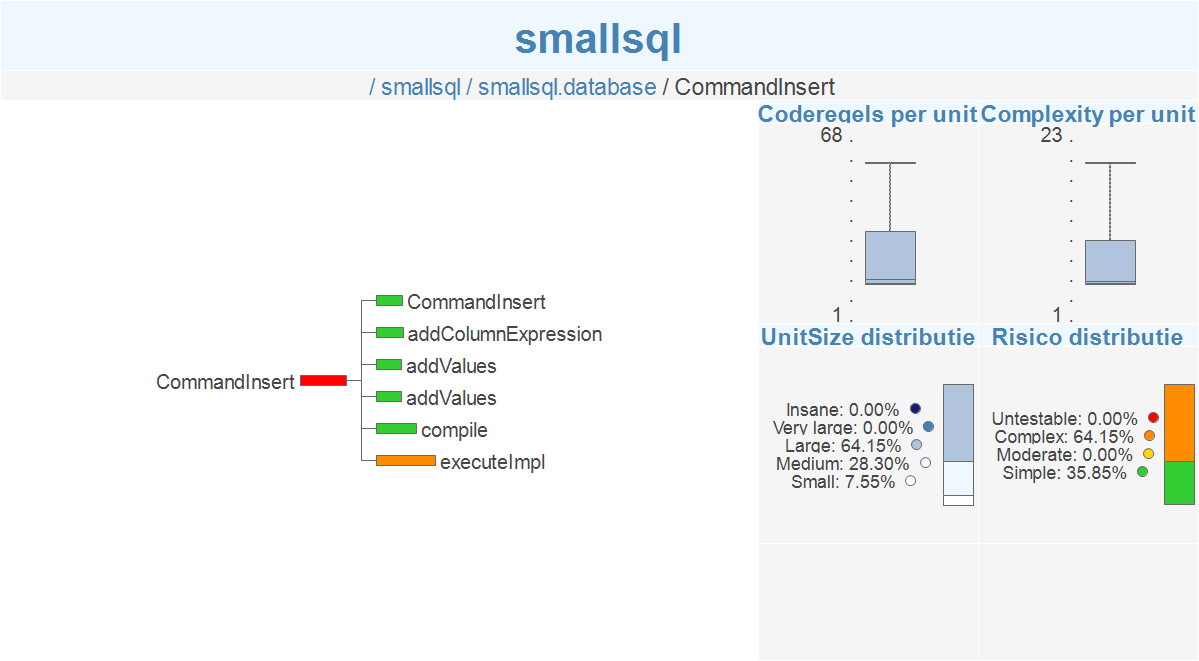
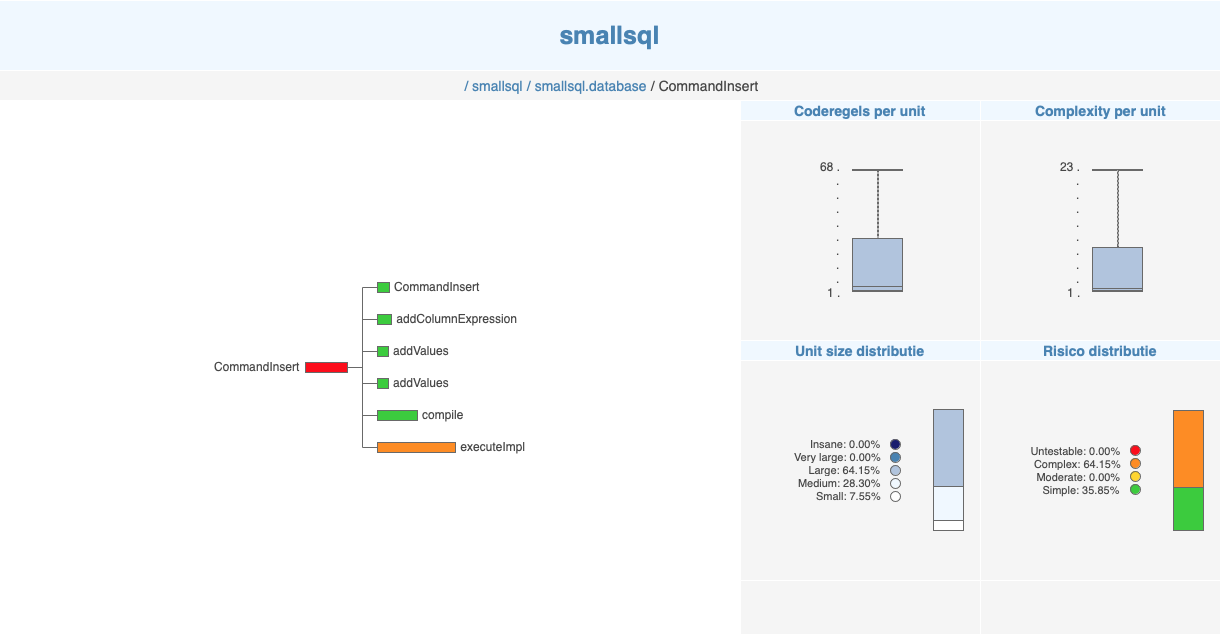
update verslag

diff --git a/verslag/assignment2/verslag_assignment2.tex b/verslag/assignment2/verslag_assignment2.tex
@@ -33,7 +33,7 @@ Het cache mechanisme en een eerste versie van een zelfgemaakte boxplot is door E
 \section{Aannames}
 \begin{description}
 \item[Data is consistent] We gaan ervan uit dat de data waar de visualisatie op maken, dezelfde is als de data uit assignment 1. Voor de visualisatie gebruiken we niet de duplicatiemetrieken.
-\item[Kleurenblindheid en grijstinten] De visualisatie is niet gemaakt voor mensen met kleurenblindheid of voor het afdrukken in grijstinten.
+\item[Kleurenblindheid en grijstinten] We gaan er van uit dat mensen met kleurenblindheid wel grijstinten kunnen onderscheiden.
 \end{description}
 
 \section{Criteria}
@@ -61,30 +61,38 @@ Het doel van onze visualisatie is de kwaliteit van een applicatie op basis van c
   \caption{Overview}
   \label{fig:overview}
 \end{figure}
-
-Het grootste deel van het scherm bestaat uit een treeview. We hebben voor een treeview gekozen, omdat we daar meerdere metrieken in kwijt kunnen; de complexiteitwaarde wordt getoond in kleur, unitsize in grootte, en de hiërarchie van de applicatie doormiddel van de structuur van de figuur (Figuur \ref{fig:overview}: \textcircled{2}). Om het overzicht te bewaren, laat de treeview niet direct waardes zien, maar zijn deze in een popup van een element (package, klasse of methode) te zien wanneer men met de muis hier overheen gaat, zie Figuur \ref{fig:treeview_popup}. Interactiviteit is ingebouwd op de volgende manieren: 1) men kan inzoomen door op een klasse of package te klikken 2) men kan uitzoomen door een shift+klik te doen op een parent node. Het meest gedetailleerde niveau is een methode of constructor.
-
+ 
+Het grootste deel van het scherm bestaat uit een treeview. We hebben voor een treeview gekozen, omdat we daar meerdere metrieken in kwijt kunnen; de complexiteitwaarde wordt getoond in kleur, unitsize in grootte, en de hiërarchie van de applicatie doormiddel van de structuur van de figuur (Figuur \ref{fig:overview}: \textcircled{2}). 
 \begin{figure}[h]
   \includegraphics[width=\linewidth]{images/treeview_with_popup.png}
   \caption{Treeview met popup}
   \label{fig:treeview_popup}
 \end{figure}
+Om het overzicht te bewaren, laat de treeview niet direct waardes zien, maar zijn deze in een popup van een element (package, klasse of methode) te zien wanneer men met de muis hier overheen gaat, zie Figuur \ref{fig:treeview_popup}. Interactiviteit is ingebouwd op de volgende manieren: 1) men kan inzoomen door op een klasse of package te klikken 2) men kan uitzoomen door een shift+klik te doen op een parent node. Het meest gedetailleerde niveau is een methode of constructor.
 
 Om een overzicht te geven waar men zich in de hiërarchie van de applicatie bevindt, wordt een kruimelpad getoond (Figuur \ref{fig:overview}: \textcircled{1}). Men kan uitzoomen door op het gewenst niveau te klikken. De klikbare delen hebben een andere kleur (blauw) dan niet-klikbare delen (zwart).
-\begin{figure}[ht]
+\begin{figure}[h]
 \centering
-  \includegraphics{images/boxplot_popup.png}
+  \includegraphics[width=5cm]{images/boxplot_popup.png}
   \caption{Boxplot met popup}
   \label{fig:boxplot_popup}
 \end{figure}
 
 
 De zijkant bevat een paneel met inzicht in de verdeling van waardes. Een stackedbar biedt inzicht in de verhouding van de classificaties in het geselecteerde niveau. Naast deze stackedbar zijn de percentages zichtbaar. Een boxplot geeft de verdeling van waardes. Een mouse-over laat een popup zien van de waardes (minimum, 1e kwartiel, mediaan, 3e kwartiel en maximum), zie Figuur \ref{fig:boxplot_popup}.
-Een stacked bar en boxplot worden getoond voor complexiteit en unitsize (Figuur \ref{fig:overview}: \textcircled{3}\textcircled{4}\textcircled{5}\textcircled{6}).
+Een stacked bar en boxplot worden getoond voor complexiteit en unitsize (Figuur \ref{fig:overview}: \textcircled{3}) en laten waardes zien voor het geselecteerde niveau.
 
+De visualisatie hebben we ook bruikbaar gemaakt voor mensen die minder goed kleuren kunnen onderscheiden. Door een zwart-wit functionaliteit te activeren, worden de kleuren rood, oranje, geel en groen vervangen door grijstinten, zie Figuure \ref{fig:overview_blackwhite}.
+\begin{figure}[h]
+\centering
+  \includegraphics[width=\linewidth]{images/overview_blackwhite.png}
+  \caption{Overview in grijstinten}
+  \label{fig:overview_blackwhite}
+\end{figure}
 
 \section{Resultaten analyse}
-Het voorkomen van vertekeningen hebben we minder goed toegepast. De grootte van de boxes in de treeview zijn hier een voorbeeld van, zo ook de punten aan de zijkant van de boxplot, dit zijn er altijd 10 en dat kan misleidend zijn.
+Vertekeningen van waarnemingen hebben we niet toegepast bij de grootte van de boxes in de treeview. De visualisatie wordt onleesbaar als we dit wel zouden toepassen. Een voorbeeld is een klasse waar een methode inzit met een unitsize van één en een methode met een unitsize van 200.
+Een ander voorbeeld zijn de punten aan de zijkant van de boxplot, dit zijn er altijd 10 en dat kan misleidend zijn.
 
 Het aantal informatie dragende dimensies hebben we wel goed toegepast. De boxplotten en stackedbars zijn een 1-dimensionale weergave van een metriek. In de treeview worden twee dimensies weergegeven doormiddel van kleur en grootte. 
 
